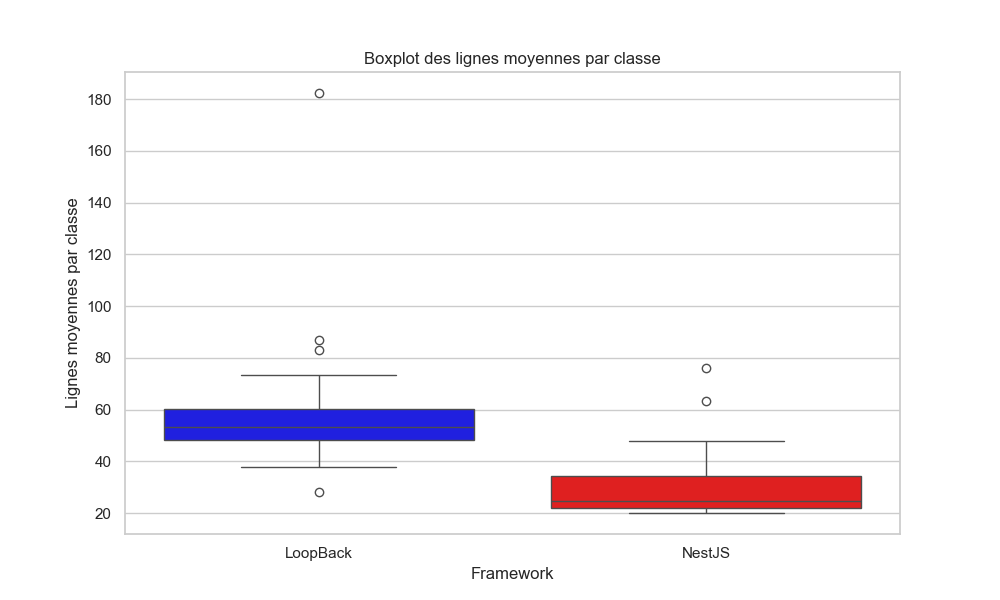
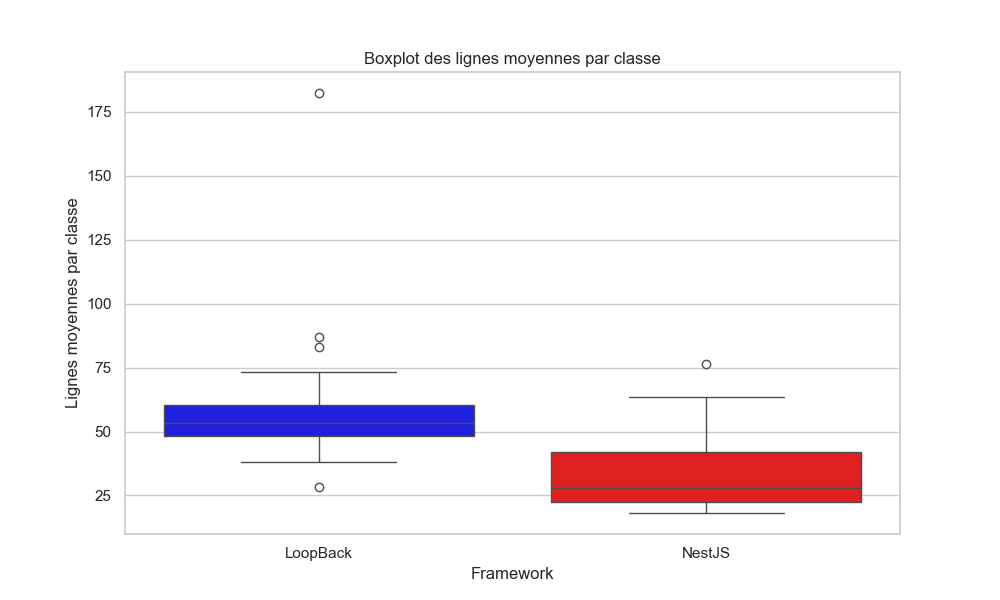
new graphs and new nest projects

diff --git a/src/analysis/modelisation.py b/src/analysis/modelisation.py
@@ -66,6 +66,56 @@ def densityplot_view(combined_df_cleaned, palette):
     plt.title('Distribution de la proportion de classes commentées')
     save_plot(fig, f"density_commentedClasses.png")
 
+def boxplot_average_methods_by_class(combined_df, palette):
+    """Génère un boxplot pour 'Average methods by class' par framework."""
+    fig, ax = plt.subplots(figsize=(10, 6))
+    sns.boxplot(x='Framework', y='Average methods by class', data=combined_df, palette=palette)
+    ax.set_title('Boxplot de la moyenne des méthodes par classe')
+    ax.set_ylabel('Moyenne des méthodes par classe')
+    save_plot(fig, "boxplot_average_methods_by_class.png")
+
+def scatterplot_average_methods_vs_lines_by_class(combined_df, palette):
+    """Génère un scatterplot pour comparer 'Average methods by class' et 'Average lines by class'."""
+    fig, ax = plt.subplots(figsize=(10, 6))
+    sns.scatterplot(data=combined_df, x='Average lines by class', y='Average methods by class', hue='Framework', style='Framework', palette=palette)
+    ax.set_title('Scatterplot des moyennes des méthodes par classe vs lignes par classe')
+    ax.set_xlabel('Moyenne des lignes par classe')
+    ax.set_ylabel('Moyenne des méthodes par classe')
+    save_plot(fig, "scatterplot_methods_vs_lines_by_class.png")
+
+def compare_complexity_metrics(combined_df, palette):
+    metrics = ['Average cyclomatic complexity for classes', 'Average cyclomatic complexity for methods']
+    titles = ['Complexité Cyclomatique Moyenne par Classe', 'Complexité Cyclomatique Moyenne par Méthode']
+    
+    for metric, title in zip(metrics, titles):
+        fig, ax = plt.subplots(figsize=(10, 6))
+        sns.boxplot(x='Framework', y=metric, data=combined_df, palette=palette)
+        ax.set_title(title)
+        save_plot(fig, f"boxplot_{metric}.png")
+
+def plot_lines_vs_complexity(combined_df, palette):
+    fig, ax = plt.subplots(figsize=(10, 6))
+    sns.scatterplot(data=combined_df, x='Average lines by class', y='Average cyclomatic complexity for classes', hue='Framework', style='Framework', palette=palette)
+    ax.set_title('Nombre de Lignes vs Complexité Cyclomatique par Classe')
+    save_plot(fig, "scatter_lines_vs_complexity_classes.png")
+    
+def compare_commented_code(combined_df, palette):
+    metrics = ['Proportion of commented methods (%)', 'Proportion of commented classes (%)']
+    titles = ['Proportion de Méthodes Commentées', 'Proportion de Classes Commentées']
+    
+    for metric, title in zip(metrics, titles):
+        fig, ax = plt.subplots(figsize=(10, 6))
+        sns.barplot(x='Framework', y=metric, data=combined_df, palette=palette)
+        ax.set_title(title)
+        save_plot(fig, f"barplot_{metric}.png")
+
+def scatterplot_methods_vs(combined_df, palette, comparison, title):
+    fig, ax = plt.subplots(figsize=(10, 6))
+    sns.scatterplot(data=combined_df, x='Average methods by class', y=comparison, hue='Framework', style='Framework', palette=palette)
+    ax.set_title('Moyenne des Méthodes par Classe vs' + title)
+    save_plot(fig, "scatter_methods_vs_" + title + ".png")
+
+
 def modelize(combined_df):
     palette = {"LoopBack": "blue", "NestJS": "red"}
     sns.set_theme(style="whitegrid")
@@ -81,6 +131,17 @@ def modelize(combined_df):
     violinplot_view(combined_df, palette)
     barplot_view(combined_df_cleaned, palette)
     densityplot_view(combined_df_cleaned, palette)
+    boxplot_average_methods_by_class(combined_df, palette)
+    scatterplot_average_methods_vs_lines_by_class(combined_df, palette)
+
+    compare_complexity_metrics(combined_df, palette)
+    plot_lines_vs_complexity(combined_df, palette)
+    compare_commented_code(combined_df, palette)
+
+    scatterplot_methods_vs(combined_df, palette, 'Average cyclomatic complexity for classes', "Compléxité cyclomatique")
+    scatterplot_methods_vs(combined_df, palette, 'Proportion of commented classes (%)', "Proportion de classes commenté")
+    scatterplot_methods_vs(combined_df, palette, 'Number of God Classes (more than 50 lines)', "Nombre de God Classes ( + de 50 lignes)")
+
 
 # Exemple d'utilisation de la fonction principale
 # modelize_views(combined_df)
